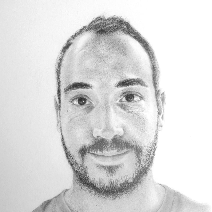
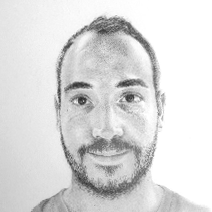
add photo hover effect

diff --git a/docs/sobre-mi/index.html b/docs/sobre-mi/index.html
@@ -6,29 +6,26 @@
 	<meta name="viewport" content="width=device-width, initial-scale=1.0">
 	<meta http-equiv="X-UA-Compatible" content="ie=edge">
 <meta itemprop="name" content="Sobre mí">
-<meta itemprop="description" content="Soy originario de Las Palmas de Gran Canaria y me dedico al desarrollo de software multiplataforma.
-Me defino como alguien autodidacta, con afán de superación, creativo, proactivo, asertivo y siempre encantado de trabajar en equipo.
-Actualmente trabajo en Lean Mind.">
+<meta itemprop="description" content=".photo-container { border: 3px solid #e8eef2; border-radius: 50%; height: 150px; margin: 0 auto; overflow: hidden; position: relative; width: 150px; } .photo-color { position: absolute; } .photo-monochrome { opacity: 100%; position: absolute; transition: all ease-in-out 0.3s; } .photo-monochrome:hover { opacity: 0; }   Soy originario de Las Palmas de Gran Canaria y me dedico al desarrollo de software multiplataforma.
+Me defino como alguien autodidacta, con afán de superación, creativo, proactivo, asertivo y siempre encantado de trabajar en equipo.">
 <meta itemprop="datePublished" content="2021-01-27T18:02:43+00:00" />
 <meta itemprop="dateModified" content="2021-01-27T18:02:43+00:00" />
-<meta itemprop="wordCount" content="40">
+<meta itemprop="wordCount" content="81">
 
 
 
 <meta itemprop="keywords" content="" />
 <meta property="og:title" content="Sobre mí" />
-<meta property="og:description" content="Soy originario de Las Palmas de Gran Canaria y me dedico al desarrollo de software multiplataforma.
-Me defino como alguien autodidacta, con afán de superación, creativo, proactivo, asertivo y siempre encantado de trabajar en equipo.
-Actualmente trabajo en Lean Mind." />
+<meta property="og:description" content=".photo-container { border: 3px solid #e8eef2; border-radius: 50%; height: 150px; margin: 0 auto; overflow: hidden; position: relative; width: 150px; } .photo-color { position: absolute; } .photo-monochrome { opacity: 100%; position: absolute; transition: all ease-in-out 0.3s; } .photo-monochrome:hover { opacity: 0; }   Soy originario de Las Palmas de Gran Canaria y me dedico al desarrollo de software multiplataforma.
+Me defino como alguien autodidacta, con afán de superación, creativo, proactivo, asertivo y siempre encantado de trabajar en equipo." />
 <meta property="og:type" content="article" />
 <meta property="og:url" content="https://www.samueldevega.com/sobre-mi/" />
 <meta property="article:published_time" content="2021-01-27T18:02:43+00:00" />
 <meta property="article:modified_time" content="2021-01-27T18:02:43+00:00" />
 <meta name="twitter:card" content="summary"/>
 <meta name="twitter:title" content="Sobre mí"/>
-<meta name="twitter:description" content="Soy originario de Las Palmas de Gran Canaria y me dedico al desarrollo de software multiplataforma.
-Me defino como alguien autodidacta, con afán de superación, creativo, proactivo, asertivo y siempre encantado de trabajar en equipo.
-Actualmente trabajo en Lean Mind."/>
+<meta name="twitter:description" content=".photo-container { border: 3px solid #e8eef2; border-radius: 50%; height: 150px; margin: 0 auto; overflow: hidden; position: relative; width: 150px; } .photo-color { position: absolute; } .photo-monochrome { opacity: 100%; position: absolute; transition: all ease-in-out 0.3s; } .photo-monochrome:hover { opacity: 0; }   Soy originario de Las Palmas de Gran Canaria y me dedico al desarrollo de software multiplataforma.
+Me defino como alguien autodidacta, con afán de superación, creativo, proactivo, asertivo y siempre encantado de trabajar en equipo."/>
 
 	<link rel="apple-touch-icon" sizes="180x180" href="/apple-touch-icon.png">
 	<link rel="icon" type="image/png" sizes="32x32" href="/favicon-32x32.png">
@@ -75,7 +72,32 @@ Actualmente trabajo en Lean Mind."/>
 		<div class="content">
 			
 
-<img src="me.png" alt="Me" title="¡Este soy yo! 😄" style="border: 3px solid #e8eef2;  border-radius: 50%; height: 120px; width: 120px;" />
+<style>
+.photo-container {
+	border: 3px solid #e8eef2;
+	border-radius: 50%;
+	height: 150px;
+	margin: 0 auto;
+	overflow: hidden;
+	position: relative;
+	width: 150px;
+}
+.photo-color {
+	position: absolute;
+}
+.photo-monochrome {
+	opacity: 100%;
+	position: absolute;
+	transition: all ease-in-out 0.3s;
+}
+.photo-monochrome:hover {
+	opacity: 0;
+}
+</style>
+<div class="photo-container">
+	<img src="me-color.png" alt="Me" title="¡Este soy yo! 😄" class="photo-color" />
+	<img src="me.png" alt="Me" title="¡Este soy yo! 😄" class="photo-monochrome" />
+</div>
 
 <p>Soy originario de Las Palmas de Gran Canaria y me dedico al desarrollo de software multiplataforma.</p>
 <p>Me defino como alguien autodidacta, con afán de superación, creativo, proactivo, asertivo y siempre encantado de trabajar en equipo.</p>

diff --git a/content/sobre-mi.md b/content/sobre-mi.md
@@ -4,7 +4,32 @@ date: 2021-01-27T18:02:43Z
 draft: false
 ---
 {{< rawhtml >}}
-<img src="me.png" alt="Me" title="¡Este soy yo! 😄" style="border: 3px solid #e8eef2;  border-radius: 50%; height: 120px; width: 120px;" />
+<style>
+.photo-container {
+	border: 3px solid #e8eef2;
+	border-radius: 50%;
+	height: 150px;
+	margin: 0 auto;
+	overflow: hidden;
+	position: relative;
+	width: 150px;
+}
+.photo-color {
+	position: absolute;
+}
+.photo-monochrome {
+	opacity: 100%;
+	position: absolute;
+	transition: all ease-in-out 0.3s;
+}
+.photo-monochrome:hover {
+	opacity: 0;
+}
+</style>
+<div class="photo-container">
+	<img src="me-color.png" alt="Me" title="¡Este soy yo! 😄" class="photo-color" />
+	<img src="me.png" alt="Me" title="¡Este soy yo! 😄" class="photo-monochrome" />
+</div>
 {{< /rawhtml >}}
 
 Soy originario de Las Palmas de Gran Canaria y me dedico al desarrollo de software multiplataforma.
